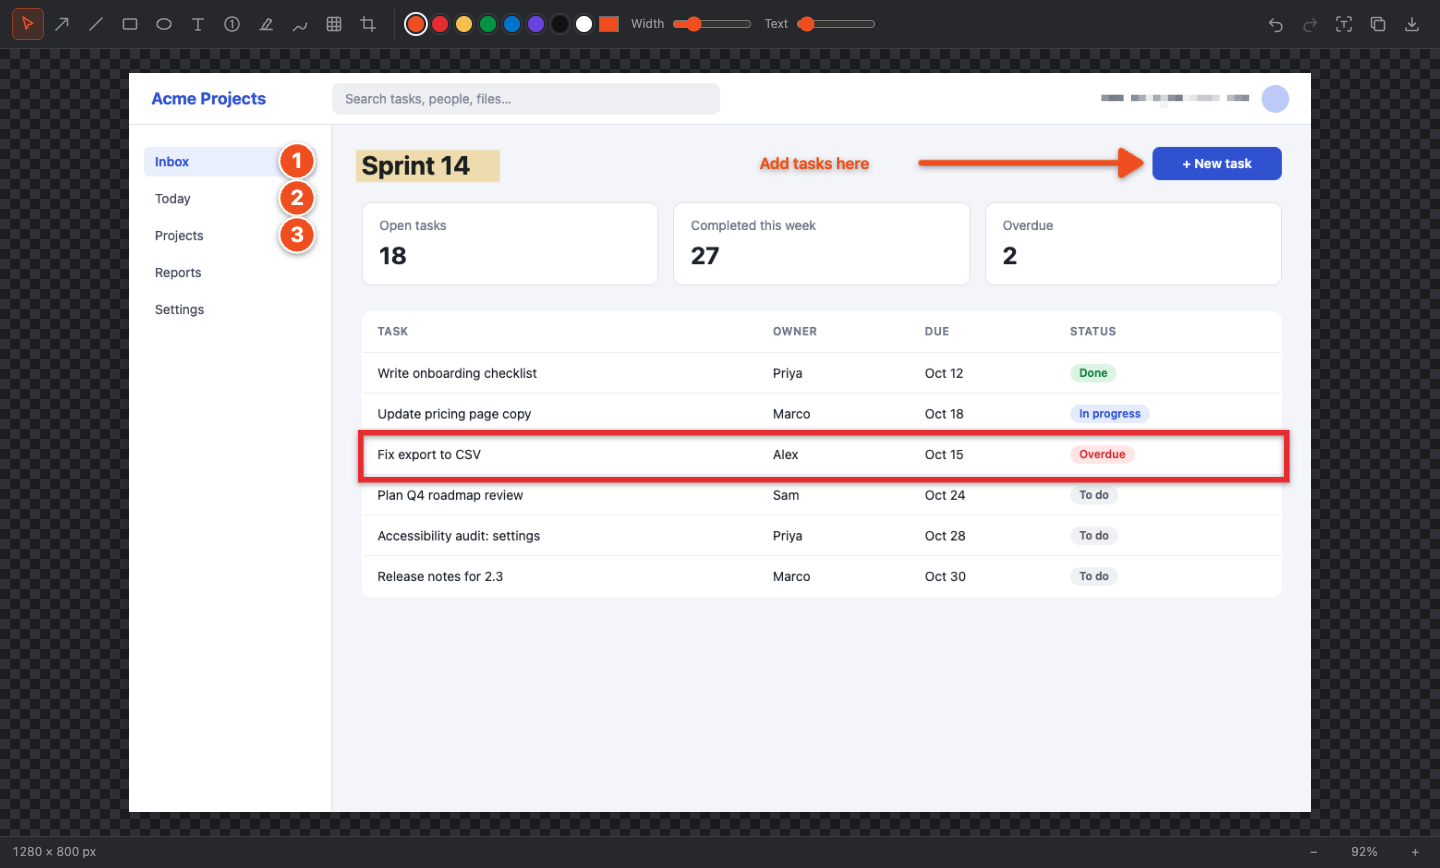
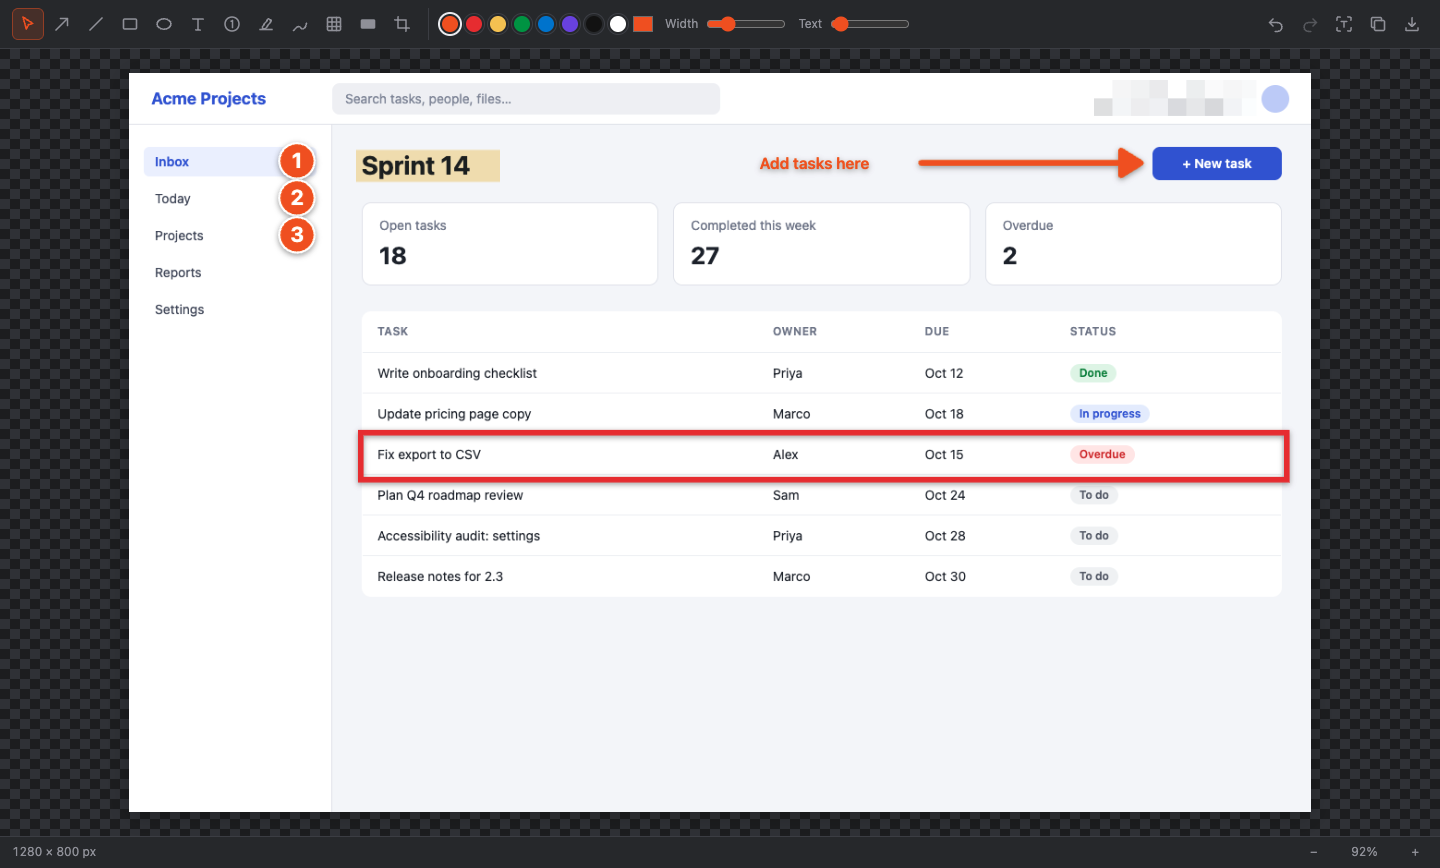
Make redaction safe: bake redactions and crops into saved files
- .markcraft files no longer contain the unredacted original. On save, the
  background is cut to the cropped area and every redaction is burned in;
  redaction layers are dropped. In the editor they stay movable and undoable.
- New solid Redact tool (X): an opaque box, black by default.
- Pixelation averages every pixel in each block exactly, uses blocks about
  half the region's height so a line of text becomes at most two rows, and
  adds per-block brightness noise so block-matching unpixelation tools such as
  Depix can't line up their guesses.
- Smoke test crops and saves through the real Save As path, then checks the
  file holds no redaction layers, nothing outside the crop, and no original
  pixels under redactions. Unit tests cover the pixelation.
- README documents what gets saved and that auto-saved originals are unredacted.

Changed region(s): [[0.25, 0.0, 0.5938, 0.0622], [0.75, 0.0933, 0.875, 0.1555]]

diff --git a/src/renderer/editor/tools.ts b/src/renderer/editor/tools.ts
@@ -15,6 +15,7 @@ import {
 } from 'fabric'
 import type { Rect as Box } from '../../shared/types'
 import type { EditorDoc, SnapKind } from './doc'
+import { blockSize, pixelate } from './redact'
 
 export type ToolName =
   | 'select'
@@ -27,6 +28,7 @@ export type ToolName =
   | 'highlight'
   | 'pen'
   | 'redact'
+  | 'block'
   | 'crop'
 
 export interface Style {
@@ -37,6 +39,7 @@ export interface Style {
 
 const FONT = '-apple-system, BlinkMacSystemFont, "Segoe UI", system-ui, sans-serif'
 const CROP_COLOR = '#e8590c'
+const SOLID_REDACT = '#111111'
 
 const shadow = () => new Shadow({ color: 'rgba(0,0,0,0.35)', blur: 6, offsetX: 0, offsetY: 2 })
 
@@ -62,23 +65,6 @@ export function arrowPathData(x1: number, y1: number, x2: number, y2: number, wi
   const sx = x2 - head * 0.6 * cos
   const sy = y2 - head * 0.6 * sin
   return `M ${x1} ${y1} L ${sx} ${sy} M ${x2} ${y2} L ${lx} ${ly} L ${rx} ${ry} Z`
-}
-
-/** Blocky mosaic of `source`, used to redact sensitive content. */
-export function pixelate(source: HTMLCanvasElement, block: number): HTMLCanvasElement {
-  const small = document.createElement('canvas')
-  small.width = Math.max(1, Math.ceil(source.width / block))
-  small.height = Math.max(1, Math.ceil(source.height / block))
-  const sctx = small.getContext('2d')!
-  sctx.imageSmoothingQuality = 'medium'
-  sctx.drawImage(source, 0, 0, small.width, small.height)
-  const out = document.createElement('canvas')
-  out.width = source.width
-  out.height = source.height
-  const octx = out.getContext('2d')!
-  octx.imageSmoothingEnabled = false
-  octx.drawImage(small, 0, 0, out.width, out.height)
-  return out
 }
 
 const kind = (o: FabricObject) => (o as FabricObject & { snapKind?: SnapKind }).snapKind
@@ -149,6 +135,9 @@ export class Tools {
           break
         case 'highlight':
           o.set({ fill: withAlpha(color, 0.4) })
+          break
+        case 'block':
+          o.set({ fill: color })
           break
         case 'text':
           o.set({ fill: color, fontSize } as Partial<IText>)
@@ -223,6 +212,7 @@ export class Tools {
       case 'rect':
       case 'highlight':
       case 'redact':
+      case 'block':
       case 'crop':
         if (!obj) {
           obj = new Rect(this.rectStyle(this.tool, color, width))
@@ -262,6 +252,9 @@ export class Tools {
         } as Partial<Rect>
       case 'redact':
         return { fill: 'rgba(0,0,0,0.25)', strokeWidth: 0, evented: false }
+      case 'block':
+        // Solid and fully opaque: nothing of what's underneath survives.
+        return { fill: SOLID_REDACT, strokeWidth: 0, snapKind: 'block' } as Partial<Rect>
       case 'crop':
         return {
           fill: 'transparent',
@@ -315,10 +308,14 @@ export class Tools {
   }
 
   private async addRedaction(box: Box): Promise<void> {
-    const block = Math.max(8, Math.round(Math.max(box.width, box.height) / 24))
+    const source = this.doc.backgroundPixels(box)
+    const ctx = source.getContext('2d')!
+    const pixels = ctx.getImageData(0, 0, source.width, source.height)
+    const out = pixelate(pixels, blockSize(source.width, source.height))
+    ctx.putImageData(new ImageData(out.data as Uint8ClampedArray<ArrayBuffer>, out.width, out.height), 0, 0)
     // Encode once. An <img>-backed image reports its src as-is, whereas a
     // <canvas>-backed one re-encodes a PNG every time the document is snapshotted.
-    const dataUrl = pixelate(this.doc.backgroundPixels(box), block).toDataURL('image/png')
+    const dataUrl = source.toDataURL('image/png')
     const img = await FabricImage.fromURL(dataUrl)
     img.set({ left: box.x, top: box.y, snapKind: 'redact', snapAsset: this.doc.addAsset(dataUrl) } as Partial<FabricImage>)
     this.doc.canvas.add(img)

diff --git a/src/renderer/editor/doc.ts b/src/renderer/editor/doc.ts
@@ -11,9 +11,25 @@ export const CUSTOM_PROPS = ['snapKind', 'snapAsset']
 /** Prefix for image sources held in the asset table instead of inline. */
 const ASSET_REF = 'asset:'
 
-type SerializedObject = { snapAsset?: string; src?: string; [key: string]: unknown }
+type SerializedObject = { snapKind?: string; snapAsset?: string; src?: string; [key: string]: unknown }
 
-export type SnapKind = 'arrow' | 'line' | 'rect' | 'ellipse' | 'text' | 'step' | 'highlight' | 'pen' | 'redact'
+/** Pixelate and solid-box redactions, live or serialized. */
+const isRedaction = (o: { snapKind?: string } | FabricObject) => {
+  const kind = (o as { snapKind?: string }).snapKind
+  return kind === 'redact' || kind === 'block'
+}
+
+export type SnapKind =
+  | 'arrow'
+  | 'line'
+  | 'rect'
+  | 'ellipse'
+  | 'text'
+  | 'step'
+  | 'highlight'
+  | 'pen'
+  | 'redact'
+  | 'block'
 
 export interface DocState {
   width: number
@@ -127,17 +143,47 @@ export class EditorDoc {
     )
   }
 
-  /** Self-contained document for saving: every image is embedded. */
+  /**
+   * Self-contained document for saving. Nothing hidden in the editor survives
+   * into the file: the background is cut to the cropped area and every
+   * redaction is burned into it, so recipients can't move a redaction aside
+   * or undo a crop to see the original.
+   */
   toSnapDoc(): SnapDoc {
     const s = this.state()
+    const redactions = this.annotations().filter(isRedaction)
     return {
       format: 'markcraft',
       version: 1,
       width: s.width,
       height: s.height,
-      background: { dataUrl: this.bg.getSrc(), left: s.bgLeft, top: s.bgTop },
-      objects: this.inlineAssets(s.objects)
+      background: { dataUrl: this.bakedBackground(redactions), left: 0, top: 0 },
+      objects: this.inlineAssets(s.objects.filter((o) => !isRedaction(o as SerializedObject)))
     }
+  }
+
+  /** The visible background with redactions painted on, as a PNG data URL. */
+  private bakedBackground(redactions: FabricObject[]): string {
+    const out = document.createElement('canvas')
+    out.width = this.width
+    out.height = this.height
+    const ctx = out.getContext('2d')!
+    ctx.drawImage(this.bg.getElement() as CanvasImageSource, this.bg.left, this.bg.top)
+    for (const o of redactions) {
+      ctx.save()
+      // Same transform Fabric renders with (object centre at the origin), so
+      // moved, resized or rotated redactions land exactly where they appear.
+      const [a, b, c, d, e, f] = o.calcTransformMatrix()
+      ctx.transform(a, b, c, d, e, f)
+      if (o instanceof FabricImage) {
+        ctx.drawImage(o.getElement() as CanvasImageSource, -o.width / 2, -o.height / 2, o.width, o.height)
+      } else {
+        ctx.fillStyle = String(o.fill)
+        ctx.fillRect(-o.width / 2, -o.height / 2, o.width, o.height)
+      }
+      ctx.restore()
+    }
+    return out.toDataURL('image/png')
   }
 
   /** Render the document at 1:1 image pixels with no selection handles. */

diff --git a/src/renderer/editor/redact.ts b/src/renderer/editor/redact.ts
@@ -1,0 +1,59 @@
+/**
+ * Pixelation that holds up against unpixelation tools.
+ *
+ * Tools like Depix recover pixelated text by rendering candidate characters,
+ * pixelating them the same way, and matching block colours. Two things defeat
+ * that: blocks that span whole characters (so many strings map to the same
+ * colours), and random per-block noise (so colours never match exactly).
+ */
+
+export interface Pixels {
+  width: number
+  height: number
+  data: Uint8ClampedArray // RGBA
+}
+
+/** Brightness noise added to each block's average, in 0–255 units. */
+export const NOISE = 14
+
+/**
+ * Block size for a region: about half the region's short side, so a line of
+ * text becomes at most a couple of rows of blocks. Clamped so tiny regions
+ * still get chunky blocks and large ones don't turn into a single colour.
+ */
+export function blockSize(width: number, height: number): number {
+  return Math.min(64, Math.max(12, Math.round(Math.min(width, height) / 2)))
+}
+
+/** Replace every block with its exact average colour plus random noise. */
+export function pixelate(src: Pixels, block: number, random: () => number = Math.random): Pixels {
+  const { width, height, data } = src
+  const out = new Uint8ClampedArray(data.length)
+  for (let by = 0; by < height; by += block) {
+    for (let bx = 0; bx < width; bx += block) {
+      const x1 = Math.min(width, bx + block)
+      const y1 = Math.min(height, by + block)
+      let r = 0
+      let g = 0
+      let b = 0
+      let n = 0
+      for (let y = by; y < y1; y++) {
+        for (let x = bx; x < x1; x++) {
+          const i = (y * width + x) * 4
+          r += data[i]
+          g += data[i + 1]
+          b += data[i + 2]
+          n++
+        }
+      }
+      // One brightness offset per block: as effective against matching as
+      // per-channel noise, without tinting the blocks random colours.
+      const jitter = (random() * 2 - 1) * NOISE
+      const fill = [r / n + jitter, g / n + jitter, b / n + jitter, 255]
+      for (let y = by; y < y1; y++) {
+        for (let x = bx; x < x1; x++) out.set(fill, (y * width + x) * 4)
+      }
+    }
+  }
+  return { width, height, data: out }
+}

diff --git a/test/redact.test.ts b/test/redact.test.ts
@@ -1,0 +1,52 @@
+import assert from 'node:assert/strict'
+import { test } from 'node:test'
+import { blockSize, NOISE, pixelate, type Pixels } from '../src/renderer/editor/redact.ts'
+
+/** Black "text" strokes on white, like a line of an email address. */
+function textLike(width: number, height: number): Pixels {
+  const data = new Uint8ClampedArray(width * height * 4)
+  for (let y = 0; y < height; y++) {
+    for (let x = 0; x < width; x++) {
+      const ink = y > height * 0.25 && y < height * 0.75 && x % 7 < 2
+      data.set(ink ? [20, 20, 20, 255] : [250, 250, 250, 255], (y * width + x) * 4)
+    }
+  }
+  return { width, height, data }
+}
+
+test('a line of text becomes at most two rows of large blocks', () => {
+  // a 26px-high line (13px text on a 2x display)
+  const block = blockSize(400, 26)
+  assert.ok(block >= 12)
+  assert.ok(Math.ceil(26 / block) <= 2)
+  assert.equal(blockSize(4000, 3000), 64)
+  assert.equal(blockSize(20, 10), 12)
+})
+
+test('every block is one solid colour near the average of what it covered', () => {
+  const src = textLike(120, 40)
+  const block = 20
+  const out = pixelate(src, block)
+  for (let by = 0; by < src.height; by += block) {
+    for (let bx = 0; bx < src.width; bx += block) {
+      const first = out.data.slice((by * src.width + bx) * 4, (by * src.width + bx) * 4 + 4)
+      let sum = 0
+      for (let y = by; y < by + block; y++) {
+        for (let x = bx; x < bx + block; x++) {
+          const i = (y * src.width + x) * 4
+          assert.deepEqual([...out.data.slice(i, i + 4)], [...first], 'block is uniform')
+          sum += src.data[i]
+        }
+      }
+      const mean = sum / (block * block)
+      assert.ok(Math.abs(first[0] - mean) <= NOISE + 1, 'colour stays near the block average')
+    }
+  }
+})
+
+test('noise makes identical content pixelate differently each time', () => {
+  const src = textLike(120, 40)
+  const a = pixelate(src, 20)
+  const b = pixelate(src, 20)
+  assert.notDeepEqual(a.data, b.data)
+})

diff --git a/src/renderer/editor/main.ts b/src/renderer/editor/main.ts
@@ -18,6 +18,7 @@ const TOOLS: { name: ToolName; label: string; key: string }[] = [
   { name: 'highlight', label: 'Highlight', key: 'h' },
   { name: 'pen', label: 'Pen', key: 'p' },
   { name: 'redact', label: 'Pixelate', key: 'b' },
+  { name: 'block', label: 'Redact (solid box)', key: 'x' },
   { name: 'crop', label: 'Crop', key: 'c' }
 ]
 
@@ -295,7 +296,9 @@ async function start(): Promise<void> {
   selectTool('arrow')
   setColor(style.color)
   new ResizeObserver(() => {
-    if (autoFit) fit()
+    // Refit on the next frame: resizing the canvas inside the callback would
+    // trigger another observation in the same frame.
+    if (autoFit) requestAnimationFrame(fit)
   }).observe(stage)
 }
 

diff --git a/src/renderer/editor/icons.ts b/src/renderer/editor/icons.ts
@@ -13,6 +13,7 @@ export const icons = {
   highlight: svg('<path d="M4 15.5h12"/><path d="M6.5 12.5l6-8 3 2.2-6 8H6.5z"/>'),
   pen: svg('<path d="M3.5 16.5c2-1 2.5-4 5-4s2 3 4.5 2.5 3-4 3.5-6"/>'),
   redact: svg('<rect x="3.5" y="3.5" width="13" height="13" rx="1.5"/><path d="M3.5 8h13M3.5 12.5h13M8 3.5v13M12.5 3.5v13"/>'),
+  block: svg('<rect x="3.5" y="6" width="13" height="8" rx="1" fill="currentColor"/>'),
   crop: svg('<path d="M6 2.5V14h11.5"/><path d="M2.5 6H14v11.5"/>'),
   undo: svg('<path d="M7 5L3.5 8.5 7 12"/><path d="M3.5 8.5h8a4.5 4.5 0 010 9H9"/>'),
   redo: svg('<path d="M13 5l3.5 3.5L13 12"/><path d="M16.5 8.5h-8a4.5 4.5 0 000 9H11"/>'),

diff --git a/README.md b/README.md
@@ -15,8 +15,10 @@ annotate it with arrows, boxes, numbered steps, highlights and redactions.
   screen. The screen freezes while you select, with a magnifier and live pixel
   size for precise edges.
 - **Annotate:** arrows, lines, rectangles, ellipses, text, auto-numbered steps,
-  highlighter, freehand pen, pixelate for redacting sensitive details, and crop.
-  Full undo and redo.
+  highlighter, freehand pen and crop, with full undo and redo.
+- **Redact safely:** cover sensitive details with a solid box, or pixelate them
+  with large, noise-randomised blocks that resist unpixelation tools. Exports
+  and saved files only contain the redacted pixels (see below).
 - **Scrolling capture:** select a scrolling area, scroll, and get one tall image.
   Sticky headers and footers appear once, not on every screen.
 - **Grab text (OCR):** pull the text out of any capture to copy and paste. It
@@ -83,7 +85,8 @@ On macOS, ⌘⇧3/4/5 stay with the built-in screenshot tool.
 | L | Line | | P | Pen |
 | R | Rectangle | | B | Pixelate (redact) |
 | E | Ellipse | | C | Crop (drag, then Enter) |
-| T | Text | | Delete | Remove the selection |
+| T | Text | | X | Redact (solid box) |
+| | | | Delete | Remove the selection |
 
 | macOS | Windows / Linux | Action |
 | --- | --- | --- |
@@ -93,10 +96,24 @@ On macOS, ⌘⇧3/4/5 stay with the built-in screenshot tool.
 | ⌘S / ⇧⌘S | Ctrl+S / Ctrl+Shift+S | Save / Save As (PNG, JPEG or editable `.markcraft`) |
 | ⌘0 / ⌘9 | Ctrl+0 / Ctrl+9 | Actual size / fit to window |
 
+### Redaction and what gets saved
+
+Inside the editor, redactions and crops can still be moved and undone. Everything
+that leaves the editor is final:
+
+- **Copy, PNG and JPEG** contain only what you see.
+- **`.markcraft` files** keep your other annotations editable, but the image is
+  cut to the cropped area and every redaction is burned into it. Whoever you
+  send the file to can't move a redaction aside or undo the crop.
+- For passwords, keys and personal details, prefer the **solid box** (X).
+  Pixelation is much harder to reverse than in most tools, but a solid box
+  leaves nothing at all.
+
 ### Where files go
 
-- Every capture's original is kept in `Pictures/Markcraft`. You can turn this off
-  in the tray menu under **Auto-save Captures**.
+- Every capture's **original, unredacted** image is kept in `Pictures/Markcraft`.
+  If you capture sensitive things, turn this off in the tray menu under
+  **Auto-save Captures**.
 - Recordings are saved to `Movies/Markcraft` (macOS) or `Videos/Markcraft`
   (Windows/Linux).
 
